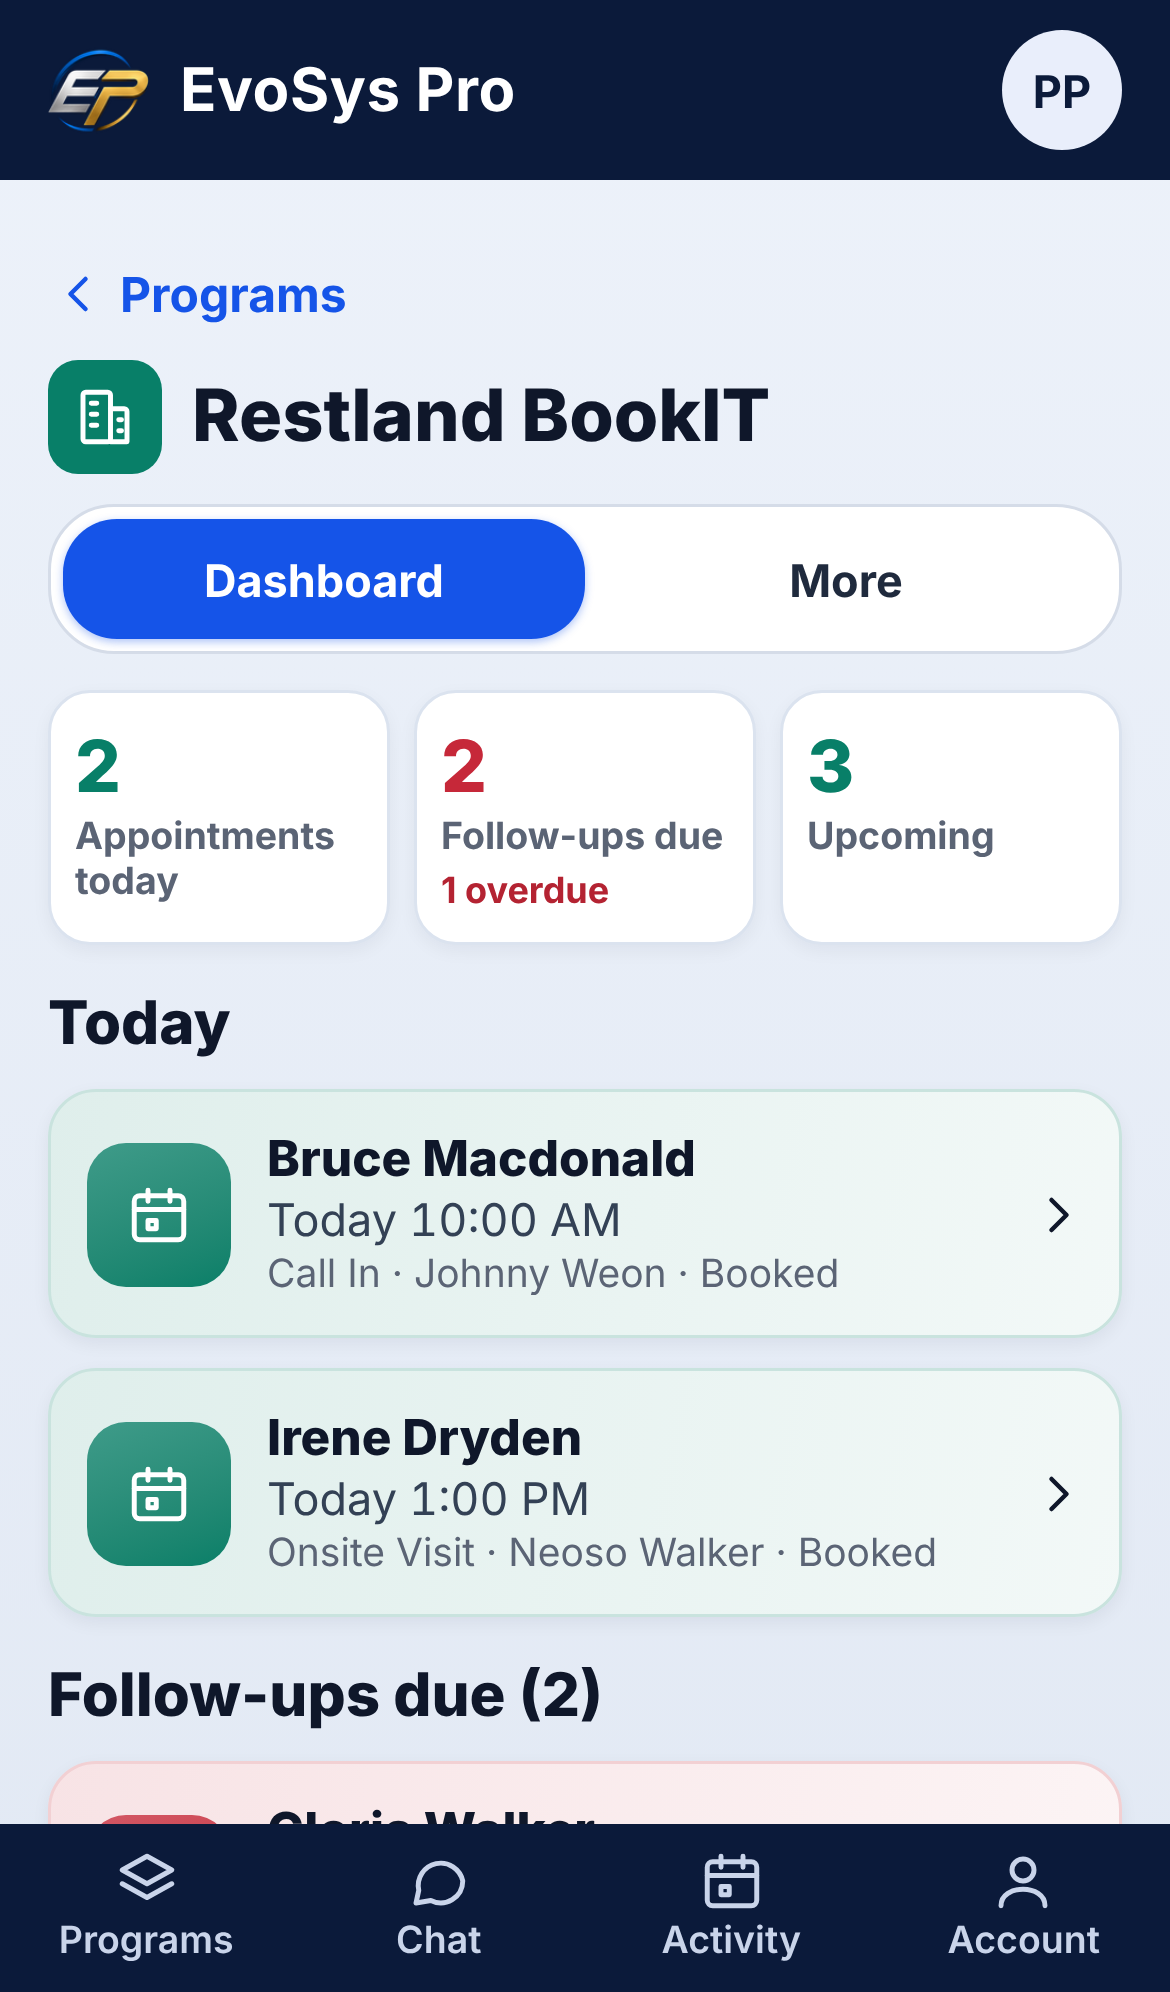
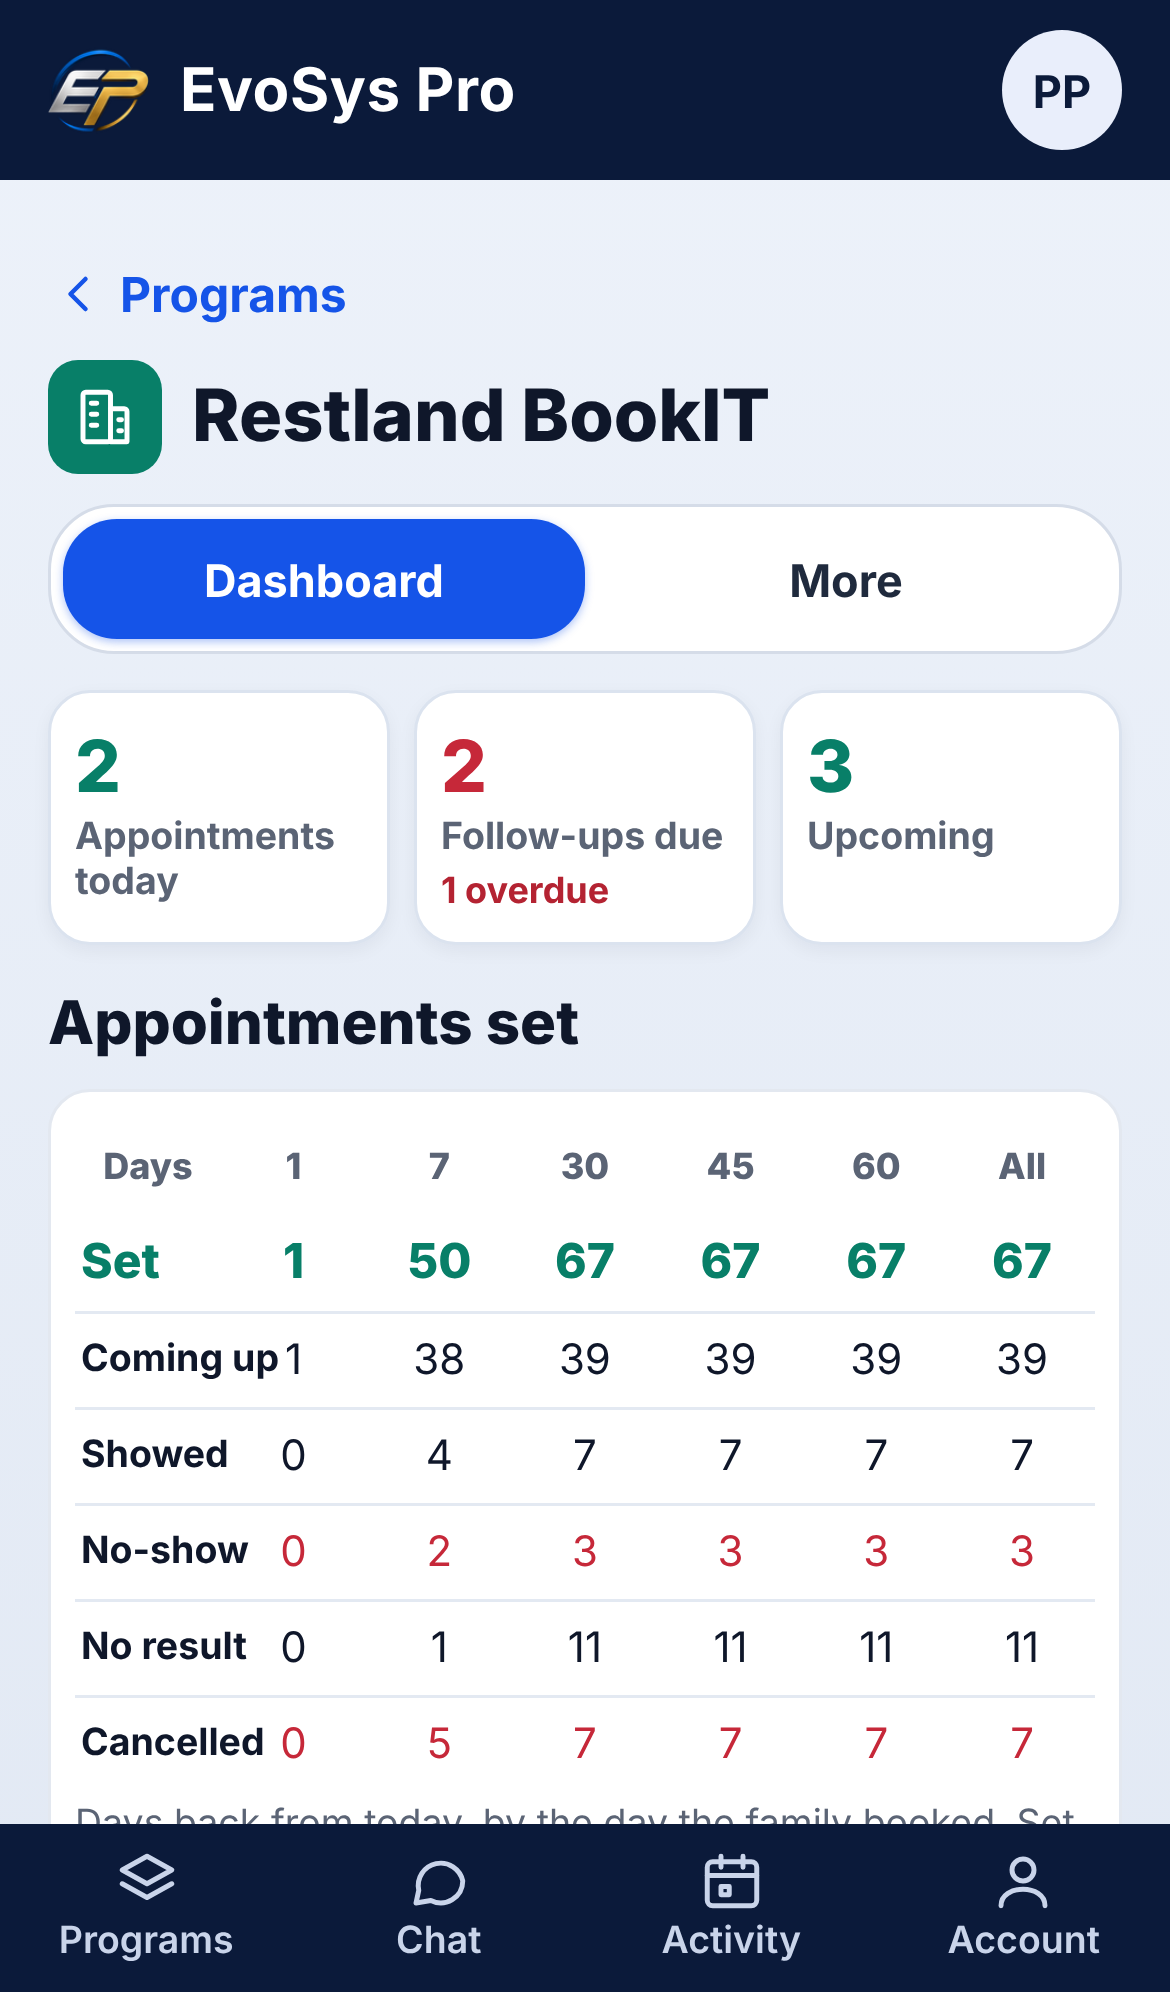
Phone BookIT: Appointments set table (1, 7, 30, 45, 60 days, all time); 12-hour times; website visit names (#863)
- GET /restland-bookit/appointments-set (managers only; same numbers as Performance)

Claude-Session: https://claude.ai/code/session_0185J8FFbSSUYRVtddwmr4dP

diff --git a/frontend/src/teamapp/BookitPhone.jsx b/frontend/src/teamapp/BookitPhone.jsx
@@ -34,7 +34,7 @@ export function bookitWhen(date, time, today = todayCentral()) {
   const days = Math.round((d - t) / 86400000)
   const day = days === 0 ? 'Today' : days === 1 ? 'Tomorrow' : days === -1 ? 'Yesterday'
     : d.toLocaleDateString('en-US', { weekday: 'short', month: 'short', day: 'numeric' }) + ' ·'
-  return (day + ' ' + (time || '')).trim()
+  return (day + ' ' + clock12(time)).trim()
 }
 
 /** "1:00 PM" -> "13:00" so times sort in clock order. */
@@ -45,6 +45,18 @@ export function clock24(t) {
   if (m[3].toUpperCase() === 'PM') h += 12
   return String(h).padStart(2, '0') + ':' + m[2]
 }
+
+/** "13:00" -> "1:00 PM"; "10:00 AM" stays. */
+export function clock12(t) {
+  const m = /^(\d{1,2}):(\d{2})$/.exec(String(t || '').trim())
+  if (!m) return String(t || '')
+  const h = Number(m[1])
+  return ((h % 12) || 12) + ':' + m[2] + (h < 12 ? ' AM' : ' PM')
+}
+
+// The website's visit names (owner, Nov 26).
+const VISIT = { onsite: 'Onsite Visit', call: 'Call In', offsite: 'Offsite Visit', unknown: 'Type Unspecified' }
+export function visitLabel(a) { return VISIT[a && a.visit] || (a && a.how) || '' }
 
 /** Upcoming (today on, not cancelled) appointments first by date; open follow-ups due now. */
 export function bookitLists(work, today = todayCentral()) {
@@ -59,6 +71,7 @@ export function bookitLists(work, today = todayCentral()) {
 export function BookitDashboard({ item }) {
   const day = useProgramGet(item, '/restland-bookit/my-day')
   const work = useProgramGet(item, '/restland-bookit/work')
+  const sets = useProgramGet(item, '/restland-bookit/appointments-set')
   const [open, setOpen] = useState(null)   // { kind: 'appt'|'fu', row }
   const [book, setBook] = useState(null)   // { row, appointment? }
   const today = todayCentral()
@@ -76,6 +89,8 @@ export function BookitDashboard({ item }) {
         <Kpi n={k.upcoming_appointments ?? appts.length} label="Upcoming" />
       </div>
 
+      {sets.data && sets.data.spans && <SetTable spans={sets.data.spans} />}
+
       <Section title="Today" empty="No appointments today.">
         {todayAppts.map(a => <ApptRow key={a.id} a={a} onOpen={() => setOpen({ kind: 'appt', row: a })} />)}
       </Section>
@@ -87,12 +102,32 @@ export function BookitDashboard({ item }) {
       </Section>
 
       {open && <FamilySheet open={open} onClose={() => setOpen(null)}
-                            onMove={(row, mode) => { setOpen(null); setBook({ row, mode, appointment: { id: row.id, whenText: bookitWhen(row.date, row.time, today), label: row.visit_detail || row.how, staff: row.assigned, status: row.status } }) }}
+                            onMove={(row, mode) => { setOpen(null); setBook({ row, mode, appointment: { id: row.id, whenText: bookitWhen(row.date, row.time, today), label: visitLabel(row), staff: row.assigned, status: row.status } }) }}
                             onBook={row => { setOpen(null); setBook({ row }) }} />}
       {book && <AppointmentSheet item={item} leadId={book.row.lead_id} name={book.row.family || 'The family'}
                                  bookings={[]} appointment={book.appointment || null} routes={BOOKIT_ROUTES} startMode={book.mode}
-                                 onClose={() => setBook(null)} onDone={() => { work.reload(); day.reload() }} />}
+                                 onClose={() => setBook(null)} onDone={() => { work.reload(); day.reload(); sets.reload() }} />}
     </div>
+  )
+}
+
+// Appointments set (owner, Nov 27): 1, 7, 30, 45, 60 days and all time, cancelled included.
+const SET_ROWS = [['set', 'Set'], ['upcoming', 'Coming up'], ['showed', 'Showed'], ['no_show', 'No-show'],
+  ['no_result', 'No result'], ['cancelled', 'Cancelled']]
+const SHORT = { 'Today': '1', '7 days': '7', '30 days': '30', '45 days': '45', '60 days': '60', 'All time': 'All' }
+function SetTable({ spans }) {
+  return (
+    <section className="ta-section">
+      <h2 className="ta-h2">Appointments set</h2>
+      <div className="ta-card ta-set">
+        <table className="ta-set-t">
+          <thead><tr><th />{spans.map(r => <th key={r.label}>{SHORT[r.label] || r.label}</th>)}</tr></thead>
+          <tbody>{SET_ROWS.map(([k, l]) => (
+            <tr key={k} className={'r-' + k}><th>{l}</th>{spans.map(r => <td key={r.label}>{r[k] ?? '–'}</td>)}</tr>))}</tbody>
+        </table>
+        <p className="ta-muted ta-small">Days back from today, by the day the family booked. Set includes cancelled.</p>
+      </div>
+    </section>
   )
 }
 
@@ -122,7 +157,7 @@ function ApptRow({ a, onOpen }) {
         <span className="ta-prow-main">
           <span className="ta-acard-title">{a.family || 'Family'}</span>
           <span className="ta-acard-time">{bookitWhen(a.date, a.time)}</span>
-          <span className="ta-arow-sub">{[a.visit_detail || a.how, a.assigned, a.status].filter(Boolean).join(' · ')}</span>
+          <span className="ta-arow-sub">{[visitLabel(a), a.assigned, a.status].filter(Boolean).join(' · ')}</span>
         </span>
         <Icon name="chev" size={20} />
       </button>
@@ -160,7 +195,7 @@ function FamilySheet({ open, onClose, onMove, onBook }) {
         {appt
           ? <div className="ta-card ta-appt-now"><Icon name="calendar" size={24} /><div>
               <div className="ta-appt-when">{bookitWhen(r.date, r.time)}</div>
-              <div className="ta-row-sub">{[r.visit_detail || r.how, r.home_address, r.assigned, r.status].filter(Boolean).join(' · ')}</div></div></div>
+              <div className="ta-row-sub">{[visitLabel(r), r.home_address, r.assigned, r.status].filter(Boolean).join(' · ')}</div></div></div>
           : <div className="ta-card"><div className="ta-row-name">{(r.why || 'Follow up').split('\n')[0]}</div>
               <div className="ta-row-sub">{r.follow_up_on ? 'Due ' + bookitWhen(r.follow_up_on, '') : 'Due now'}{r.assigned ? ' · ' + r.assigned : ''}</div>
               {r.notes && <p className="ta-small">{r.notes}</p>}</div>}

diff --git a/frontend/src/teamapp/teamapp.css b/frontend/src/teamapp/teamapp.css
@@ -514,3 +514,13 @@
 .ta-appt-actions { display: flex; gap: 10px; align-items: stretch; }
 .ta-appt-actions > .ta-btn { flex: 1 1 0; margin: 0; }
 .ta-more-h { margin: 18px 0 8px; } .ta-more-links { margin-bottom: 14px; }
+.ta-set { padding: 10px 8px; }
+.ta-set-t { width: 100%; border-collapse: collapse; font-size: 14px; table-layout: fixed; }
+.ta-set-t th, .ta-set-t td { padding: 7px 2px; text-align: center; border-bottom: 1px solid #e3e9f2; }
+.ta-set-t thead th { font-size: 12px; color: var(--ta-muted); font-weight: 800; }
+.ta-set-t tbody th { text-align: left; font-size: 13px; font-weight: 700; width: 30%; }
+.ta-set-t tr.r-set td, .ta-set-t tr.r-set th { font-weight: 800; font-size: 16px; color: #087F68; }
+.ta-set-t tr.r-no_show td, .ta-set-t tr.r-cancelled td { color: #C62839; }
+.ta-set-t tr:last-child th, .ta-set-t tr:last-child td { border-bottom: 0; }
+.ta-set-t tbody th { width: 34%; white-space: nowrap; font-size: 12.5px; }
+.ta-set-t thead th:first-child::after { content: 'Days'; }

diff --git a/tests/test_appointment_breakdown.py b/tests/test_appointment_breakdown.py
@@ -40,3 +40,22 @@ def test_appointments_set_spans_count_by_booking_day():
         S.rows = orig
     assert [t[k]["set"] for k in ("Today", "7 days", "30 days", "45 days", "60 days", "All time")] == [1, 3, 4, 5, 6, 7]
     assert t["All time"]["kept"] == 6 and t["All time"]["cancelled"] == 1 and t["All time"]["showed"] == 2
+
+
+def test_bookit_appointments_set_route_managers_only(monkeypatch):
+    import pytest
+    from fastapi import HTTPException, Response
+    from app.routers import restland_bookit_router as BR
+
+    class _W:
+        def __init__(self, m): self.manager = m
+    prog = type("P", (), {"organization_id": "org1"})()
+    monkeypatch.setattr(S, "ledger", lambda db, org: _L([], []))
+    monkeypatch.setattr(S, "rows", lambda L_, m, w_, f=None: [])
+    monkeypatch.setattr(BR, "_ctx", lambda db, user: (prog, _W(True)))
+    out = BR.appointments_set(Response(), db=None, user=None)
+    assert [r["label"] for r in out["spans"]] == ["Today", "7 days", "30 days", "45 days", "60 days", "All time"]
+    monkeypatch.setattr(BR, "_ctx", lambda db, user: (prog, _W(False)))
+    with pytest.raises(HTTPException) as e:
+        BR.appointments_set(Response(), db=None, user=None)
+    assert e.value.status_code == 403

diff --git a/app/routers/restland_bookit_router.py b/app/routers/restland_bookit_router.py
@@ -104,6 +104,19 @@ def work(response: Response, person: Optional[str] = None, db: Session = Depends
     return TB.work(db, prog, person=person if w.manager else w.name)
 
 
+@router.get("/appointments-set")
+def appointments_set(response: Response, db: Session = Depends(get_db), user: User = Depends(require_tenant_user)):
+    """Appointments set - today, 7, 30, 45, 60 days and all time, cancelled ones
+    included - with what became of them (owner, Nov 27). The same numbers as
+    Performance; the whole team's, so managers only."""
+    from app.services.programs import sci_analytics as SA
+    _nostore(response)
+    prog, w = _ctx(db, user)
+    if not w.manager:
+        raise HTTPException(status_code=403, detail="Team totals are for managers.")
+    return {"spans": SA.appointments_set(SA.ledger(db, prog.organization_id), {})}
+
+
 def _board_who(w):
     return {"manager": w.manager, "name": w.name}
 
